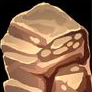
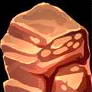
dig_game: new tile graphics

diff --git a/dig_game_main.py b/dig_game_main.py
@@ -1,3 +1,5 @@
+import random
+
 import pygame
 
 import gradient
@@ -90,22 +92,21 @@ def draw_world(world, bgs):
     render_tiles_y2 = constrain(tile_y + num_h + 1, 0, WORLD_H)
 
     # Should we grow a new tree?
-    """
     tree_ticks += dt
-    if tree_ticks > 10000 and random.randrange(100) < 10:
+    if tree_ticks > 20000 and random.randrange(100) < 5:
         tree_ticks = 0
         # Select a random off-screen x-pos
         sanity = 0
         tree_x = random.randrange(WORLD_W)
-        while render_tiles_x1 < tree_x < render_tiles_x2 or world[4][tree_x] != Tiles.AIR and sanity < 10:
+        while render_tiles_x1 < tree_x < render_tiles_x2 or world[4][tree_x] != Tiles.AIR and sanity < 20:
             tree_x = random.randrange(WORLD_W)
             sanity += 1
-        if sanity == 10:
+        if sanity == 20:
             print("Could not grow a tree")
         else:
             print("Grew a new tree at x={}".format(tree_x))
             world[4][tree_x] = random.choice([Tiles.TREE_01, Tiles.TREE_02, Tiles.TREE_03, Tiles.TREE_04])
-    """
+
     ps_offset_x = player.x - screen_w2 - PLAYER_W2  # Player/Screen offset-x
     ps_offset_y = player.y - screen_h2
 

diff --git a/dig_game_tiles.py b/dig_game_tiles.py
@@ -12,7 +12,7 @@ TILE_W = TILE_H = 42
 TILE_SCALE = 0.3
 
 IMG_GRASS_DIRT = pygame.transform.smoothscale_by(pygame.image.load("images/game/tiles/grass_dirt_block.png"), TILE_SCALE).convert_alpha()
-IMG_DIRT = pygame.transform.smoothscale_by(pygame.image.load("images/game/tiles/brown_dirt.png"), TILE_SCALE).convert_alpha()
+IMG_DIRT = pygame.transform.smoothscale_by(pygame.image.load("images/game/tiles/dirt_block.png"), TILE_SCALE).convert_alpha()
 IMG_STONE = pygame.transform.smoothscale_by(pygame.image.load("images/game/tiles/stone_block.png"), TILE_SCALE).convert_alpha()
 IMG_CLAY = pygame.transform.smoothscale_by(pygame.image.load("images/game/tiles/clay_block.png"), TILE_SCALE).convert_alpha()
 IMG_COAL = pygame.transform.smoothscale_by(pygame.image.load("images/game/tiles/coal_block.png"), TILE_SCALE).convert_alpha()
